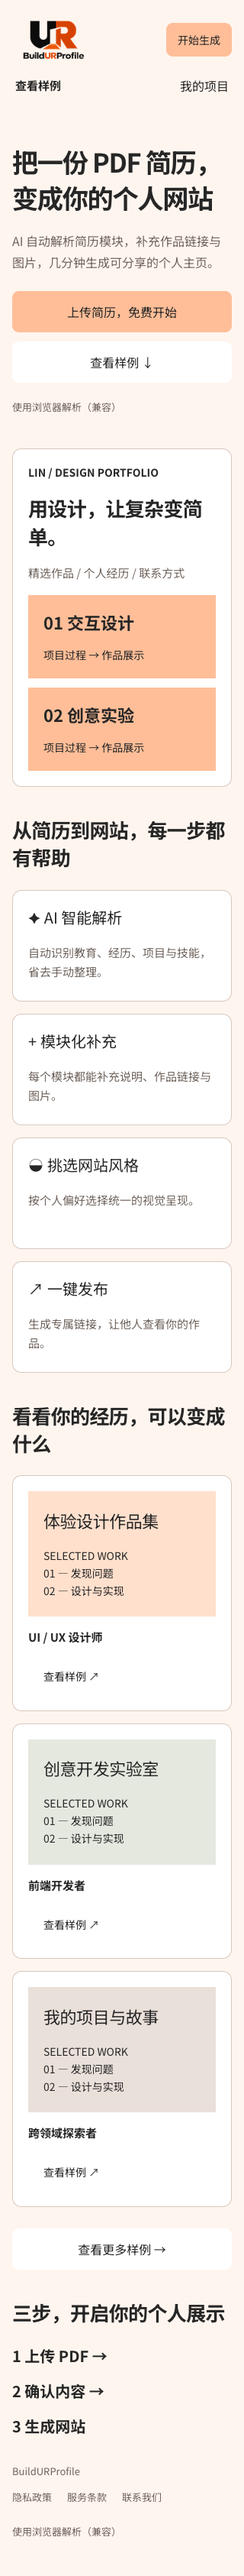
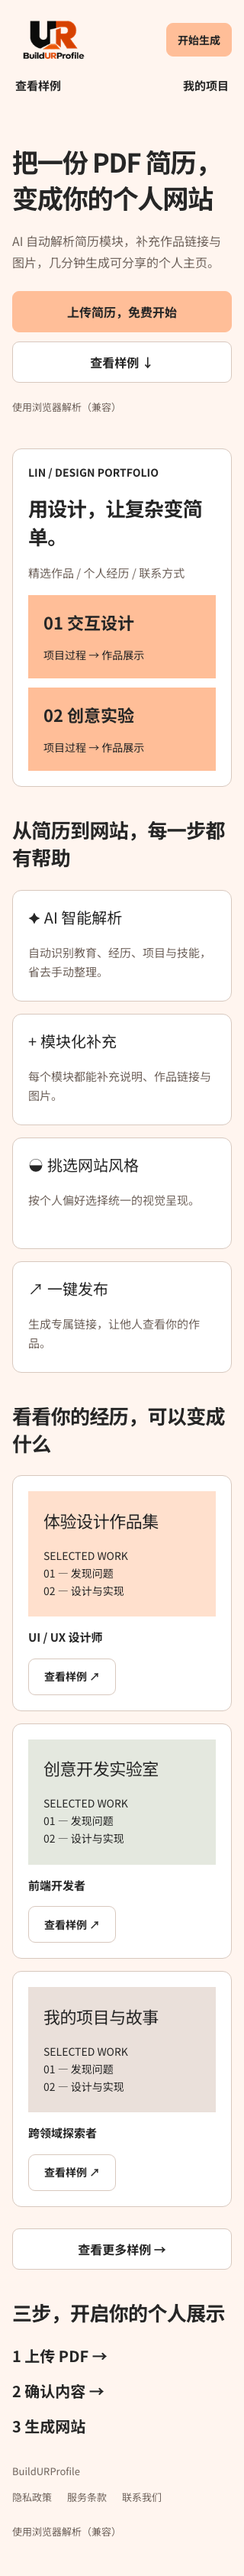
修复：启航页锚点导航、弹窗焦点、减弱动效与按钮样式回归

diff --git a/apps/web/src/components/LaunchPage.tsx b/apps/web/src/components/LaunchPage.tsx
@@ -20,15 +20,21 @@ const examples = [
   { title: "我的项目与故事", role: "跨领域探索者", tone: "stone", label: "查看我的项目与故事样例" }
 ] as const;
 
+function preferredScrollBehavior(): ScrollBehavior {
+  return typeof window.matchMedia === "function" && window.matchMedia("(prefers-reduced-motion: reduce)").matches
+    ? "auto"
+    : "smooth";
+}
+
 function scrollToExamples(): void {
   const target = document.getElementById("launch-examples");
   if (target && typeof target.scrollIntoView === "function") {
-    target.scrollIntoView({ behavior: "smooth", block: "start" });
+    target.scrollIntoView({ behavior: preferredScrollBehavior(), block: "start" });
   }
 }
 
 function scrollToTop(): void {
-  if (typeof window.scrollTo === "function") window.scrollTo({ top: 0, behavior: "smooth" });
+  if (typeof window.scrollTo === "function") window.scrollTo({ top: 0, behavior: preferredScrollBehavior() });
 }
 
 export function LaunchPage({ projectCount, onProjects, onSample, onLegacyParse }: LaunchPageProps) {
@@ -69,7 +75,7 @@ export function LaunchPage({ projectCount, onProjects, onSample, onLegacyParse }
         </div>
       </section>
 
-      <section className="launch-section" aria-labelledby="launch-value-title">
+      <section className="launch-section" id="about" aria-labelledby="launch-value-title">
         <h2 id="launch-value-title">从简历到网站，每一步都有帮助</h2>
         <div className="launch-value-grid">
           {valueCards.map((card) => <article className="launch-value-card" key={card.title}>
@@ -94,7 +100,7 @@ export function LaunchPage({ projectCount, onProjects, onSample, onLegacyParse }
         <button type="button" className="launch-button launch-button--secondary launch-more" aria-label="查看更多作品集样例" onClick={onSample}>查看更多样例 →</button>
       </section>
 
-      <section className="launch-section launch-steps" aria-labelledby="launch-steps-title">
+      <section className="launch-section launch-steps" id="process" aria-labelledby="launch-steps-title">
         <h2 id="launch-steps-title">三步，开启你的个人展示</h2>
         <ol>
           <li>1 上传 PDF →</li>

diff --git a/apps/web/src/components/LaunchPage.test.tsx b/apps/web/src/components/LaunchPage.test.tsx
@@ -13,7 +13,10 @@ const renderLaunchPage = (overrides: Partial<React.ComponentProps<typeof LaunchP
   return { ...render(<LaunchPage {...props} />), props };
 };
 
-afterEach(() => vi.restoreAllMocks());
+afterEach(() => {
+  vi.restoreAllMocks();
+  vi.unstubAllGlobals();
+});
 
 describe("LaunchPage", () => {
   it("renders the Figma launch information architecture with real destinations", () => {
@@ -67,5 +70,24 @@ describe("LaunchPage", () => {
 
     Reflect.deleteProperty(Element.prototype, "scrollIntoView");
     expect(() => fireEvent.click(screen.getByRole("button", { name: "查看样例" }))).not.toThrow();
+  });
+
+  it("uses instant scrolling when the user prefers reduced motion", () => {
+    const scrollIntoView = vi.fn();
+    const scrollTo = vi.fn();
+    Object.defineProperty(Element.prototype, "scrollIntoView", {
+      configurable: true,
+      value: scrollIntoView
+    });
+    vi.stubGlobal("matchMedia", vi.fn().mockReturnValue({ matches: true }));
+    vi.spyOn(window, "scrollTo").mockImplementation(scrollTo);
+    renderLaunchPage();
+
+    fireEvent.click(screen.getByRole("button", { name: "查看样例" }));
+    expect(scrollIntoView).toHaveBeenCalledWith({ behavior: "auto", block: "start" });
+    fireEvent.click(screen.getByRole("button", { name: "返回 BuildURProfile 首页顶部" }));
+    expect(scrollTo).toHaveBeenCalledWith({ top: 0, behavior: "auto" });
+
+    Reflect.deleteProperty(Element.prototype, "scrollIntoView");
   });
 });

diff --git a/apps/web/src/App.test.tsx b/apps/web/src/App.test.tsx
@@ -199,6 +199,26 @@ describe("showcase builder", () => {
     expect(screen.queryByRole("navigation", { name: "生成进度" })).not.toBeInTheDocument();
   });
 
+  it("keeps legacy product and process navigation anchored to the new launch sections", async () => {
+    const visitedIds: string[] = [];
+    Object.defineProperty(Element.prototype, "scrollIntoView", {
+      configurable: true,
+      value: vi.fn(function (this: Element) { visitedIds.push((this as HTMLElement).id); })
+    });
+    try {
+      render(<App />);
+      openUpload();
+      fireEvent.click(screen.getByRole("button", { name: "制作流程" }));
+      await waitFor(() => expect(visitedIds).toEqual(["process"]));
+
+      openUpload();
+      fireEvent.click(screen.getByRole("button", { name: "产品介绍" }));
+      await waitFor(() => expect(visitedIds).toEqual(["process", "about"]));
+    } finally {
+      Reflect.deleteProperty(Element.prototype, "scrollIntoView");
+    }
+  });
+
   it("accepts a dragged PDF and waits for the explicit parse action", async () => {
     render(<App />);
     openUpload();

diff --git a/apps/web/src/components/BuilderExperience.tsx b/apps/web/src/components/BuilderExperience.tsx
@@ -213,7 +213,9 @@ export function BuilderExperience(props: BuilderExperienceProps) {
   const goLanding = (section?: "about" | "process") => {
     props.onPhaseChange("landing");
     window.setTimeout(() => {
-      if (section) document.getElementById(section)?.scrollIntoView({ behavior: "smooth" });
+      const target = section ? document.getElementById(section) : null;
+      const behavior = typeof window.matchMedia === "function" && window.matchMedia("(prefers-reduced-motion: reduce)").matches ? "auto" : "smooth";
+      if (target && typeof target.scrollIntoView === "function") target.scrollIntoView({ behavior });
       else window.scrollTo({ top: 0, behavior: "instant" });
     }, 0);
   };

diff --git a/apps/web/src/styles.css b/apps/web/src/styles.css
@@ -54,16 +54,20 @@ button:focus-visible, a:focus-visible, [tabindex]:focus-visible { outline: 2px s
   background: var(--launch-bg);
   color: var(--launch-ink);
 }
-.launch-page :is(button, a) {
+.launch-page :where(button, a) {
   font: inherit;
 }
-.launch-page button {
+.launch-page :where(button) {
   border: 0;
   color: inherit;
   cursor: pointer;
 }
 .launch-page :is(button, a):focus-visible {
   outline: 3px solid var(--launch-ink);
+  outline-offset: 3px;
+}
+.launch-shell .proof-dialog :is(button, a, input, textarea, select, summary):focus-visible {
+  outline: 3px solid var(--proof-ink);
   outline-offset: 3px;
 }
 .launch-header,
